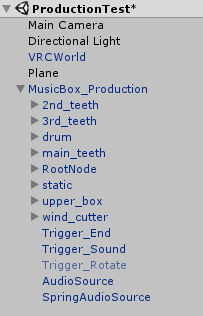
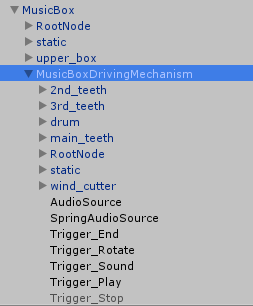
Update to ver 2019.03.27.0

Changed region(s): [[0.0, 0.0, 1.0, 1.0]]

diff --git a/customize_mbox.md b/customize_mbox.md
@@ -14,6 +14,8 @@
 ご自身で制作された（またはどこかにあった）外箱のFBXやprefabをHierarchyにドロップしてゲームオブジェクトを作成します。
 ここではプリセットにある `ModernMusicBox.fbx` を取り込んでいます。
 
+![hierarchy_mmbox](images/customize_mbox/hierarchy_mmbox.png "hierarchy_mmbox")
+
 ### オルゴール機構のゲームオブジェクトをHierarchyに作成する
 
 `MusicBoxDrivingMechanism.prefab` をHierarchyにドロップし、オルゴール機構のゲームオブジェクトを生成します。
@@ -22,13 +24,17 @@
 
 前項で生成された `MusicBoxDrivingMechanism` ゲームオブジェクトを外箱のゲームオブジェクト直下に配置します。
 
+![hierarchy_mbdm_in_mmbox](images/customize_mbox/hierarchy_mbdm_in_mmbox.png "hierarchy_mbdm_in_mmbox")
+
 そして、`MusicBoxDrivingMechanism` ゲームオブジェクトの位置を外箱基準で合わせます
+
+![mmbox](images/mmbox.png "mmbox")
 
 これで改変は完了です。
 
 宝石箱のような蓋の開閉と再生機構を連携させる方法は中級者向きのため、`MusicBox.prefab` の中身を参考にしてください。
-`MusicBox`の`VRC_Trigger`と、`MusicBoxDrivingMechanism`の`VRC_Trigger`同士で`SetGameObjectActive`アクションにてオブジェクトの
-on/offを行うことによって実現しています。
+`MusicBox`の`VRC_Trigger`と、`MusicBoxDrivingMechanism`の`VRC_Trigger`同士で`SetGameObjectActive`アクションにてオブジェクトのon/offを行うことによって実現しています。
+(蓋の開閉用Triggerは`MusicBox`の`upper_box`ゲームオブジェクト直下にあります)
 
 ---
 

diff --git a/customize_music.md b/customize_music.md
@@ -24,12 +24,11 @@
 `Hierarchy` の中に取り込んだ `MusicBox` ※の中の `MusicBoxDrivingMechanism` 直下に `AudioSource` というオーディオソースがあります。
 これが、実際の楽曲を扱うためのオーディオソースになります。
 
-![hierarchy-as](images/customize/hierarchy_select_audio_source.png "hierarchy-as")
+![hierarchy-as](images/customize_music/hierarchy_select_audio_source.png "hierarchy-as")
 
-こちらを選択すると `Inspector` にオーディオソースの設定が表示されますので、下記の赤い枠線で示されるプロパティに、
-先ほど取り込んだオーディオクリップを設定してください。
+こちらを選択すると `Inspector` にオーディオソースの設定が表示されますので、`VRC_Audio Bank`コンポーネントの中にある、下記の選択されているプロパティに先ほど取り込んだオーディオクリップを設定してください。
 
-![inspector-as](images/customize/inspector_audio_source_selected.png "inspector-as")
+![inspector-as](images/customize_music/inspector_audio_source_selected.png "inspector-as")
 
 設定することにより、オルゴールが奏でる曲の対象が変わります。
 これで、曲の変更は完了です。

diff --git a/howto_use.md b/howto_use.md
@@ -49,6 +49,8 @@ MusicBox
  `- ModernMusicBox_Original.prefab : ケースと機構を統合し、各種Trigger設定済みのprefab（オリジナル曲）
 ```
 
+![in_asset](images/description/in_asset.png "in_asset")
+
 ## 使い方
 
 `MusicBox.unitypackage` をUnityのProjectへImportします。

diff --git a/patch_note.md b/patch_note.md
@@ -4,7 +4,7 @@
 
 ## 変更履歴
 
-### ver 2019.03.27
+### ver 2019.03.27.0
 
 * オルゴールの設計変更
  * 外箱とオルゴール機構本体を分離（元々2メッシュ構成のため負荷は変わらないはずです）
